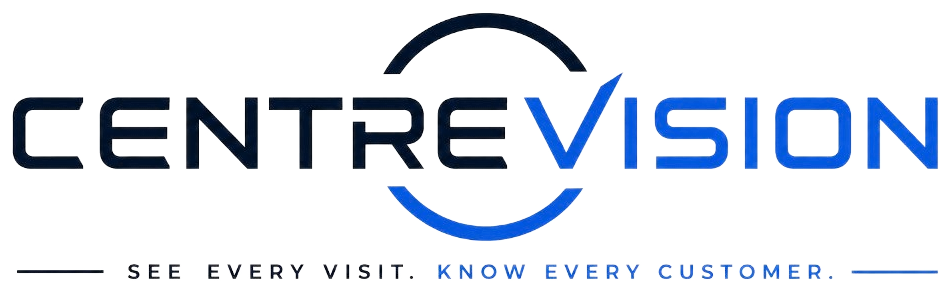
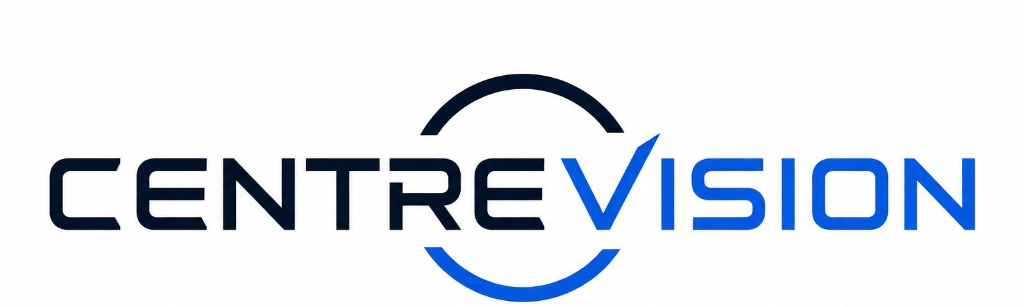
Use supplied CentreVision lockup for sidebar, login, and marketing nav

Changed region(s): [[0.0, 0.215, 1.0, 1.0], [0.3964, 0.0307, 0.6404, 0.2765]]

diff --git a/resources/views/components/brand.blade.php b/resources/views/components/brand.blade.php
@@ -1,23 +1,32 @@
 @props([
-    'variant' => 'compact', // compact = mark only, wordmark = full raster lockup
+    // compact  = SVG mark + inline "centrevision" text (crispest at tiny sizes)
+    // wordmark = raster wordmark PNG, mark + CENTREVISION baked in, no tagline
+    // full     = raster full lockup with tagline baked in
+    'variant' => 'compact',
+    // Only honoured for the `compact` variant — the raster variants already
+    // include or exclude the tagline based on which file they point at.
     'tagline' => false,
 ])
 
-@if ($variant === 'wordmark')
-    <span {{ $attributes->merge(['class' => 'inline-flex flex-col items-center gap-2']) }}>
+@if ($variant === 'full')
+    <span {{ $attributes->merge(['class' => 'inline-flex flex-col items-center']) }}>
+        <img
+            src="{{ asset('img/centrevision-logo-full.png') }}"
+            alt="{{ config('app.name') }} — see every visit, know every customer"
+            class="h-24 w-auto select-none sm:h-28"
+            width="1024"
+            height="682"
+        />
+    </span>
+@elseif ($variant === 'wordmark')
+    <span {{ $attributes->merge(['class' => 'inline-flex items-center']) }}>
         <img
             src="{{ asset('img/centrevision-wordmark.png') }}"
             alt="{{ config('app.name') }}"
-            class="h-14 w-auto select-none sm:h-16"
-            width="475"
-            height="146"
+            class="h-9 w-auto select-none sm:h-10"
+            width="1024"
+            height="307"
         />
-
-        @if ($tagline)
-            <span class="text-[11px] font-medium uppercase tracking-[0.24em] text-ink-muted">
-                {{ __('See every visit.') }} <span class="text-accent">{{ __('Know every customer.') }}</span>
-            </span>
-        @endif
     </span>
 @else
     <span {{ $attributes->merge(['class' => 'flex items-center gap-2.5']) }}>
@@ -26,7 +35,13 @@
             <span class="text-[15px] font-semibold tracking-tight">
                 <span class="text-ink">centre</span><span class="text-accent">vision</span>
             </span>
-            <span class="mt-0.5 text-[10.5px] uppercase tracking-[0.18em] text-ink-muted">.co.za</span>
+            @if ($tagline)
+                <span class="mt-1 text-[10px] uppercase tracking-[0.18em] text-ink-muted">
+                    {{ __('See every visit. Know every customer.') }}
+                </span>
+            @else
+                <span class="mt-0.5 text-[10.5px] uppercase tracking-[0.18em] text-ink-muted">.co.za</span>
+            @endif
         </span>
     </span>
 @endif

diff --git a/resources/views/components/sidebar.blade.php b/resources/views/components/sidebar.blade.php
@@ -16,19 +16,14 @@
 
 <aside class="fixed inset-y-0 left-0 z-40 flex w-[264px] flex-col gap-3 border-r border-line bg-canvas p-4 max-lg:hidden">
 
-    {{-- Brand mark card — sits alone at the top so the logo has room to breathe. --}}
+    {{-- Brand card — the wordmark lockup gets its own white tile at the top
+         of the sidebar so the logo has breathing room and reads clearly. --}}
     <a
         href="{{ route(Navigation::homeRouteFor($user)) }}"
         wire:navigate
-        class="flex items-center gap-3 rounded-xl border border-line bg-surface px-3.5 py-3 shadow-tf-sm transition-colors hover:bg-surface-2"
+        class="flex items-center justify-center rounded-xl border border-line bg-surface px-3 py-4 shadow-tf-sm transition-colors hover:bg-surface-2"
     >
-        <x-brand-mark class="!size-8 shrink-0" />
-        <span class="flex flex-col leading-none">
-            <span class="text-[14px] font-semibold tracking-tight">
-                <span class="text-ink">centre</span><span class="text-accent">vision</span>
-            </span>
-            <span class="mt-1 text-[10px] uppercase tracking-[0.18em] text-ink-muted">.co.za</span>
-        </span>
+        <x-brand variant="wordmark" />
     </a>
 
     {{-- Optional site scope pill: only rendered for tenants who have more than
@@ -108,7 +103,7 @@
 {{-- Mobile fallback: on <lg, the sidebar collapses to a strip along the top so
      users on small screens still get the same nav items without a hamburger. --}}
 <div class="mb-4 flex items-center gap-3 border-b border-line bg-canvas px-4 py-3 lg:hidden">
-    <x-brand class="flex-1" />
+    <x-brand variant="wordmark" class="flex-1" />
     <flux:dropdown position="bottom" align="end">
         <flux:button size="sm" variant="ghost" icon="bars-3" square />
         <flux:menu>

diff --git a/resources/views/marketing/landing.blade.php b/resources/views/marketing/landing.blade.php
@@ -20,11 +20,8 @@
     {{-- ── Nav ──────────────────────────────────────────────────────────── --}}
     <header class="border-b border-line bg-surface/80 backdrop-blur">
         <div class="mx-auto flex max-w-[1200px] items-center justify-between gap-4 px-6 py-4 lg:px-10">
-            <a href="{{ route('home') }}" class="flex items-center gap-2.5">
-                <x-brand-mark class="!size-8" />
-                <span class="text-[15px] font-semibold tracking-tight">
-                    <span class="text-ink">centre</span><span class="text-accent">vision</span>
-                </span>
+            <a href="{{ route('home') }}">
+                <x-brand variant="wordmark" />
             </a>
 
             <nav class="flex items-center gap-2">
@@ -343,11 +340,8 @@
         <div class="mx-auto max-w-[1200px] px-6 lg:px-10">
             <div class="grid gap-8 md:grid-cols-4">
                 <div class="md:col-span-2">
-                    <a href="{{ route('home') }}" class="flex items-center gap-2.5">
-                        <x-brand-mark class="!size-8" />
-                        <span class="text-[15px] font-semibold tracking-tight">
-                            <span class="text-ink">centre</span><span class="text-accent">vision</span>
-                        </span>
+                    <a href="{{ route('home') }}" class="inline-flex">
+                        <x-brand variant="wordmark" />
                     </a>
                     <p class="mt-4 max-w-md text-sm leading-relaxed text-ink-2">
                         Number-plate analytics for shopping centres and mixed-use campuses. See every visit,

diff --git a/resources/views/layouts/auth/simple.blade.php b/resources/views/layouts/auth/simple.blade.php
@@ -7,7 +7,7 @@
         <div class="flex min-h-svh flex-col items-center justify-center gap-6 p-6 md:p-10">
             <div class="flex w-full max-w-sm flex-col gap-6">
                 <a href="{{ route('home') }}" class="flex justify-center" wire:navigate>
-                    <x-brand variant="wordmark" tagline />
+                    <x-brand variant="full" />
                 </a>
 
                 <div class="flex flex-col gap-6 rounded-tf border border-line bg-surface p-6">
